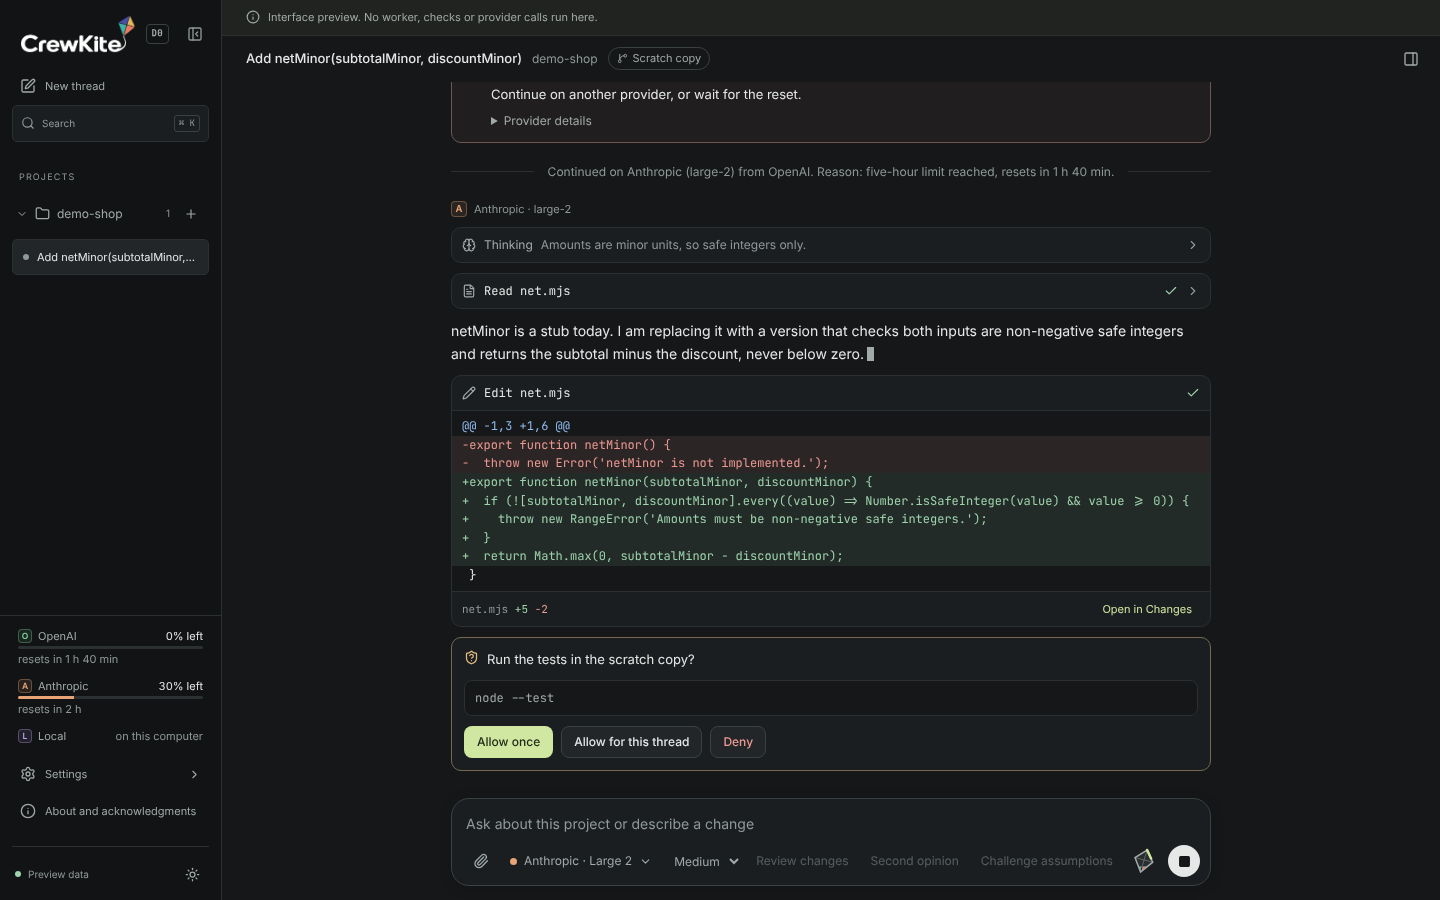
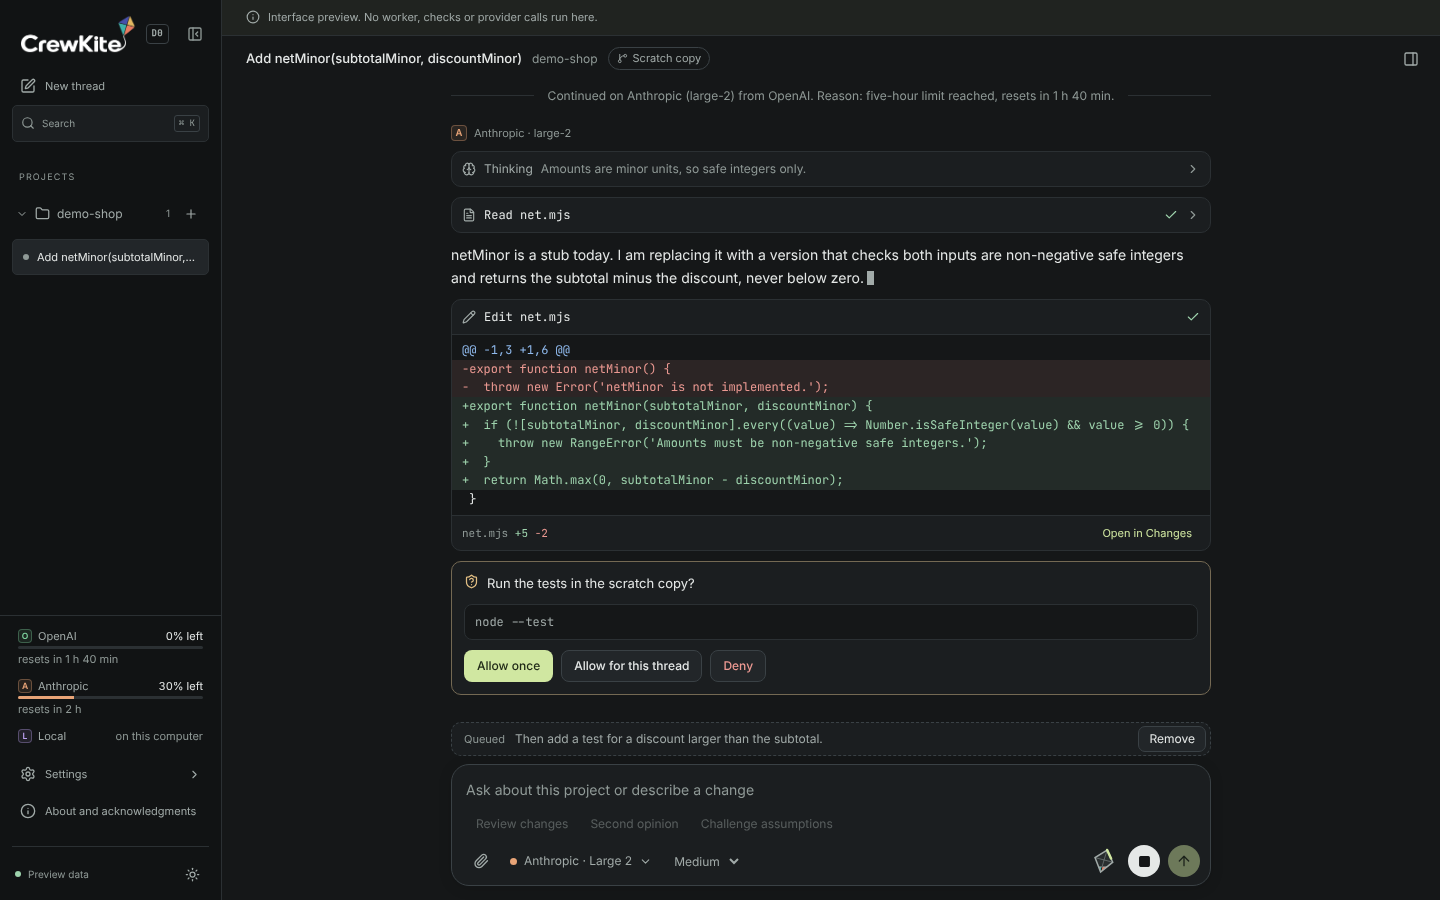
feat(desktop): colour the families after the four kite panels
The kite in the wordmark has four panels: teal, coral, indigo and gold. Each
family now takes one, so the marks, dots and bars in the rail, the composer
and Settings read as parts of the same logo: OpenAI teal, Anthropic coral,
Google indigo, Local gold. Fills use the panel colours as drawn, and text
uses a tint of each that passes 4.5:1 on every surface in both themes.

diff --git a/apps/desktop/src/renderer/style.css b/apps/desktop/src/renderer/style.css
@@ -24,10 +24,16 @@
   --green: #9ed3ad;
   --diff-add-text: var(--green);
   --diff-del-text: var(--red);
-  --family-openai: #7ccf9c;
-  --family-anthropic: #e8a477;
-  --family-google: #7fb0f0;
-  --family-local: #bba0ee;
+  /* The four kite panels, one per family: teal, coral, indigo and gold. Fills take the panel
+     colour as drawn; text takes a tint of it that reads at 4.5:1 on every surface. */
+  --family-openai-fill: #40b0a8;
+  --family-anthropic-fill: #e87860;
+  --family-google-fill: #4850a8;
+  --family-local-fill: #e0b860;
+  --family-openai: #5fcfc4;
+  --family-anthropic: #f0917c;
+  --family-google: #9aa2ec;
+  --family-local: #e8c56e;
   --shadow: 0 24px 100px #0007;
   background: var(--background);
   color: var(--text);
@@ -54,10 +60,10 @@
   --green: #33744a;
   --diff-add-text: #276040;
   --diff-del-text: #9c3a34;
-  --family-openai: #2b7048;
-  --family-anthropic: #9a5427;
-  --family-google: #2e63a6;
-  --family-local: #6c4ea5;
+  --family-openai: #1a6f69;
+  --family-anthropic: #b4482f;
+  --family-google: #3d45a0;
+  --family-local: #7a5d10;
   --shadow: 0 24px 100px #34482d25;
 }
 
@@ -783,15 +789,19 @@ kbd {
    colouring the text around it. Every value passes 4.5:1 on the card and hover backgrounds. */
 .family-openai {
   --family: var(--family-openai);
+  --family-fill: var(--family-openai-fill);
 }
 .family-anthropic {
   --family: var(--family-anthropic);
+  --family-fill: var(--family-anthropic-fill);
 }
 .family-google {
   --family: var(--family-google);
+  --family-fill: var(--family-google-fill);
 }
 .family-local {
   --family: var(--family-local);
+  --family-fill: var(--family-local-fill);
 }
 :is(.family-openai, .family-anthropic, .family-google, .family-local) {
   color: var(--family);
@@ -802,9 +812,9 @@ kbd {
   place-items: center;
   width: 16px;
   height: 16px;
-  border: 1px solid color-mix(in srgb, var(--family, currentColor) 35%, transparent);
+  border: 1px solid color-mix(in srgb, var(--family-fill, currentColor) 45%, transparent);
   border-radius: 4px;
-  background: color-mix(in srgb, var(--family, currentColor) 10%, transparent);
+  background: color-mix(in srgb, var(--family-fill, currentColor) 14%, transparent);
   font-size: 9.5px;
   font-weight: 600;
   line-height: 1;

diff --git a/apps/desktop/src/renderer/thread/thread.css b/apps/desktop/src/renderer/thread/thread.css
@@ -239,7 +239,7 @@
   width: 7px;
   height: 7px;
   border-radius: 50%;
-  background: currentColor;
+  background: var(--family-fill, currentColor);
   flex-shrink: 0;
 }
 .th-role {
@@ -1234,7 +1234,7 @@
 .rail-usage-bar span {
   display: block;
   height: 100%;
-  background: var(--family, var(--accent));
+  background: var(--family-fill, var(--family, var(--accent)));
 }
 .rail-usage-reset {
   grid-column: 1 / -1;
